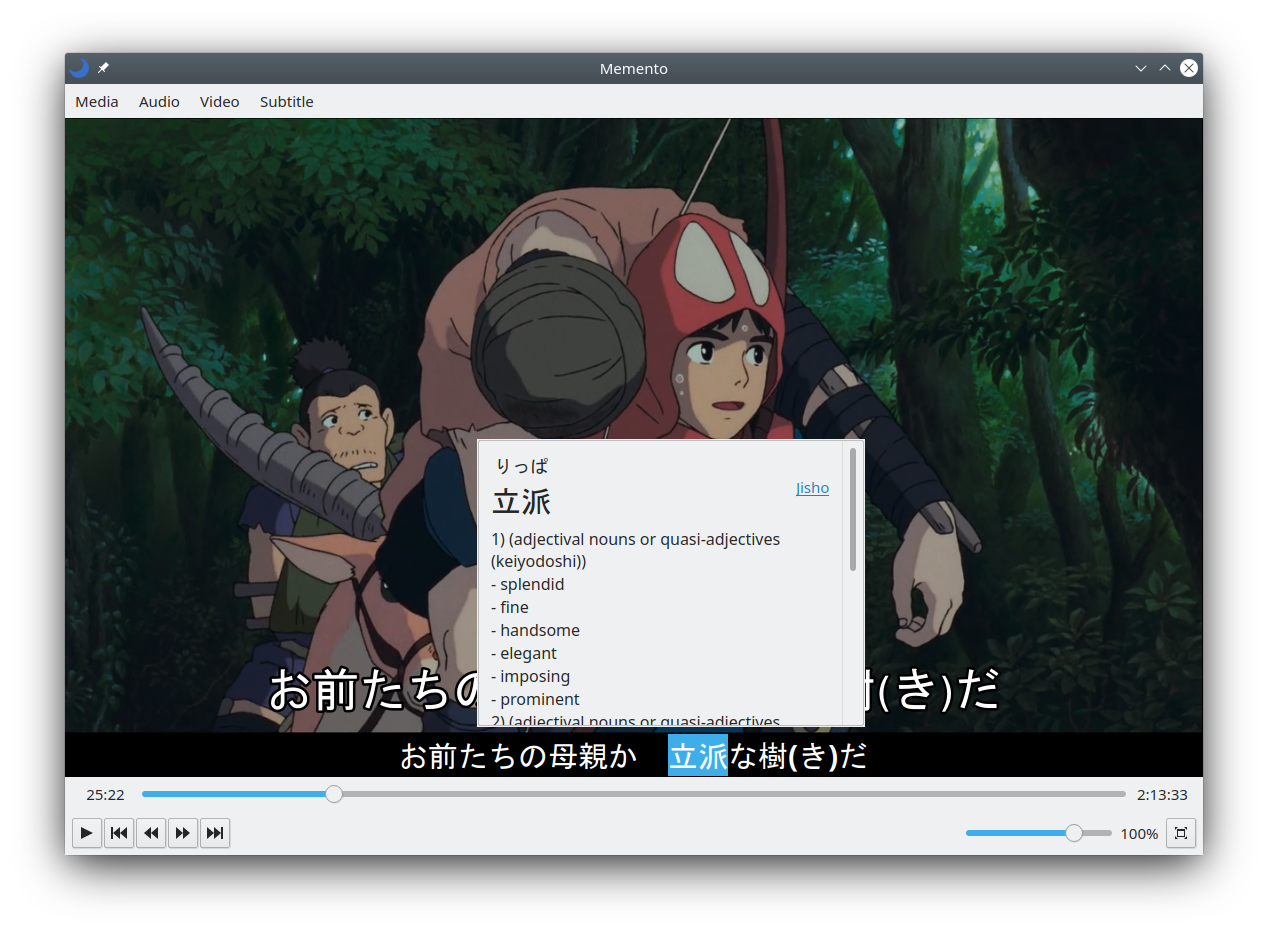
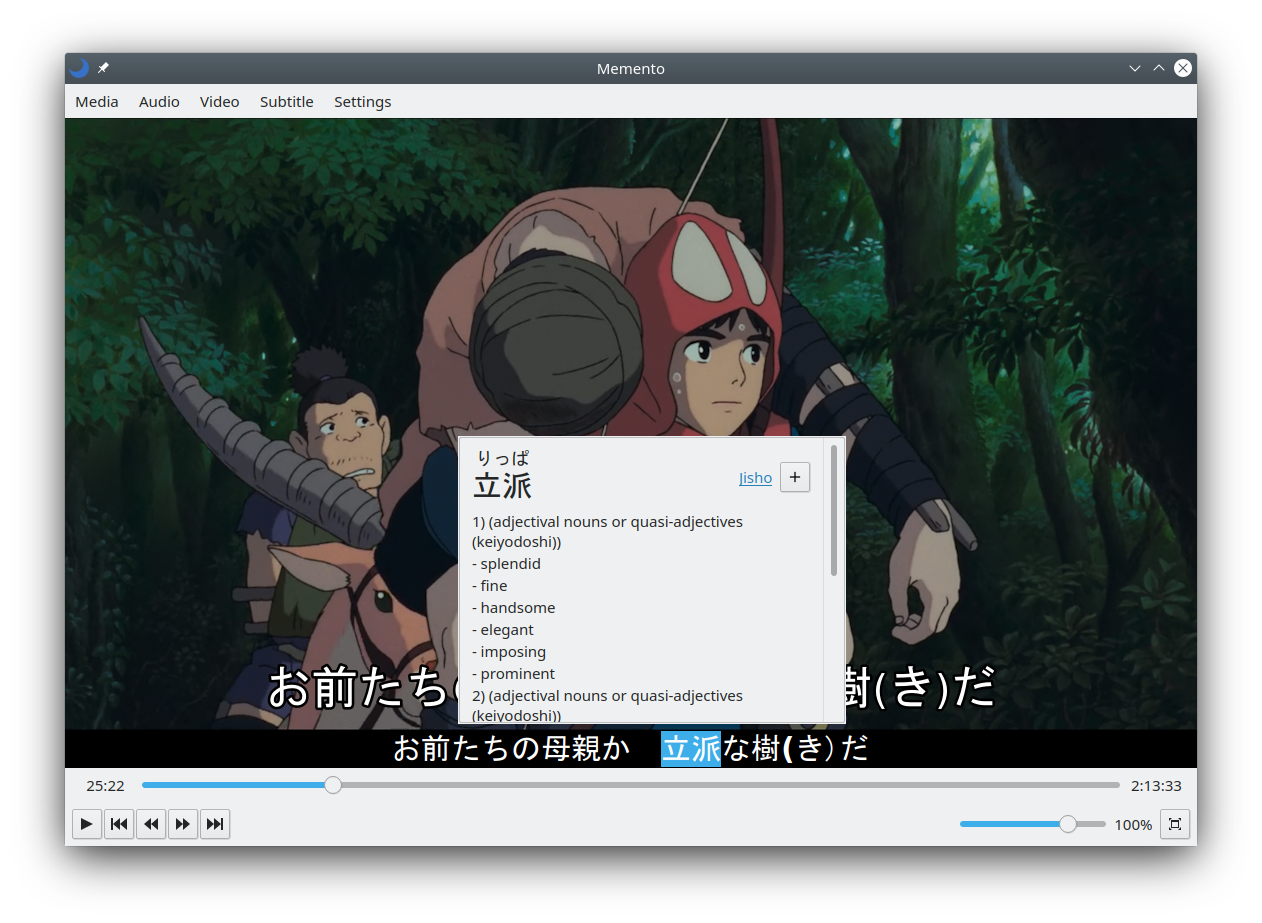
Updated example image

diff --git a/README.md b/README.md
@@ -114,8 +114,4 @@ This project uses icons made by Georgiana Ionescu for the Noun Project.
 https://thenounproject.com/georgiana.ionescu/
 
 Plus and minus button images were sourced from here.
-<<<<<<< HEAD
 https://www.iconfinder.com/iconsets/ios-7-icons
-=======
-https://www.svgrepo.com/vectors/plus-symbol-button/
->>>>>>> 6b7b141c4e5c0a41160007ff11b3ab162e94996b
